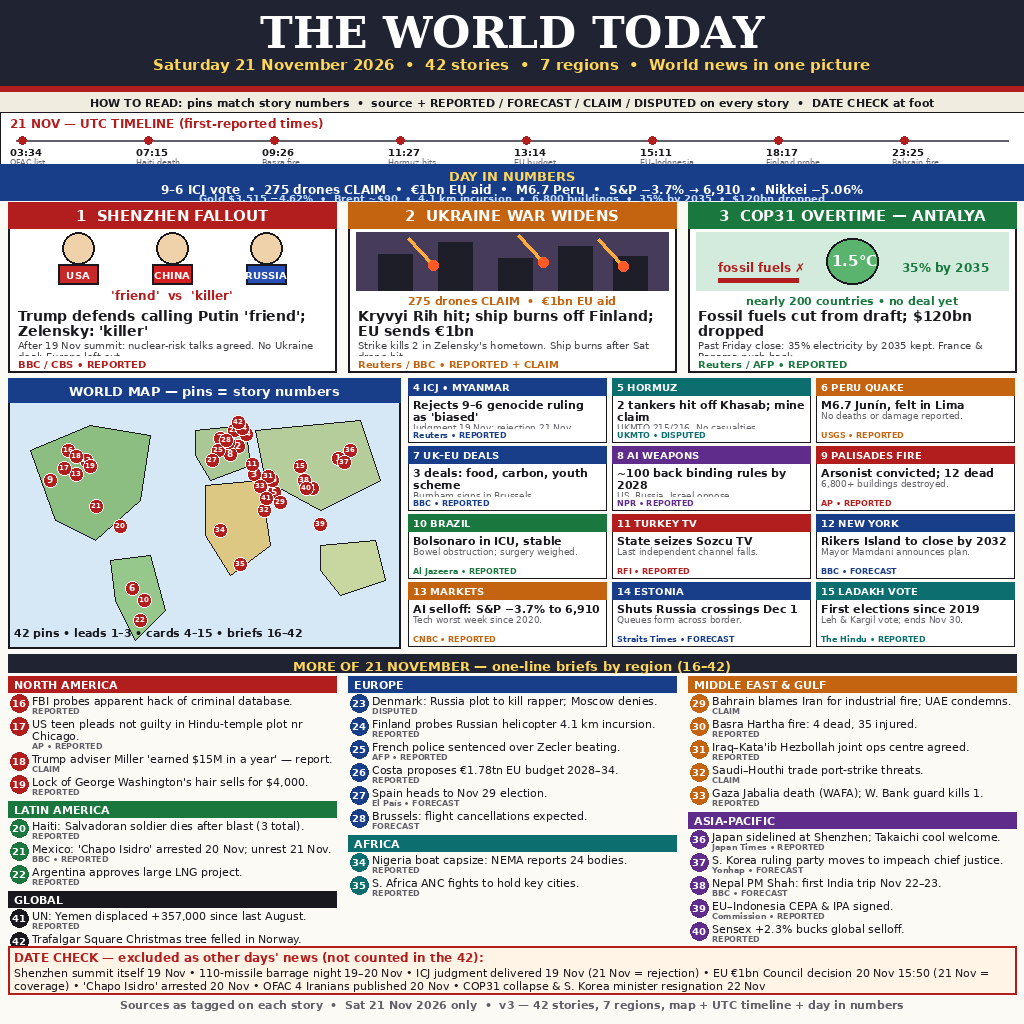
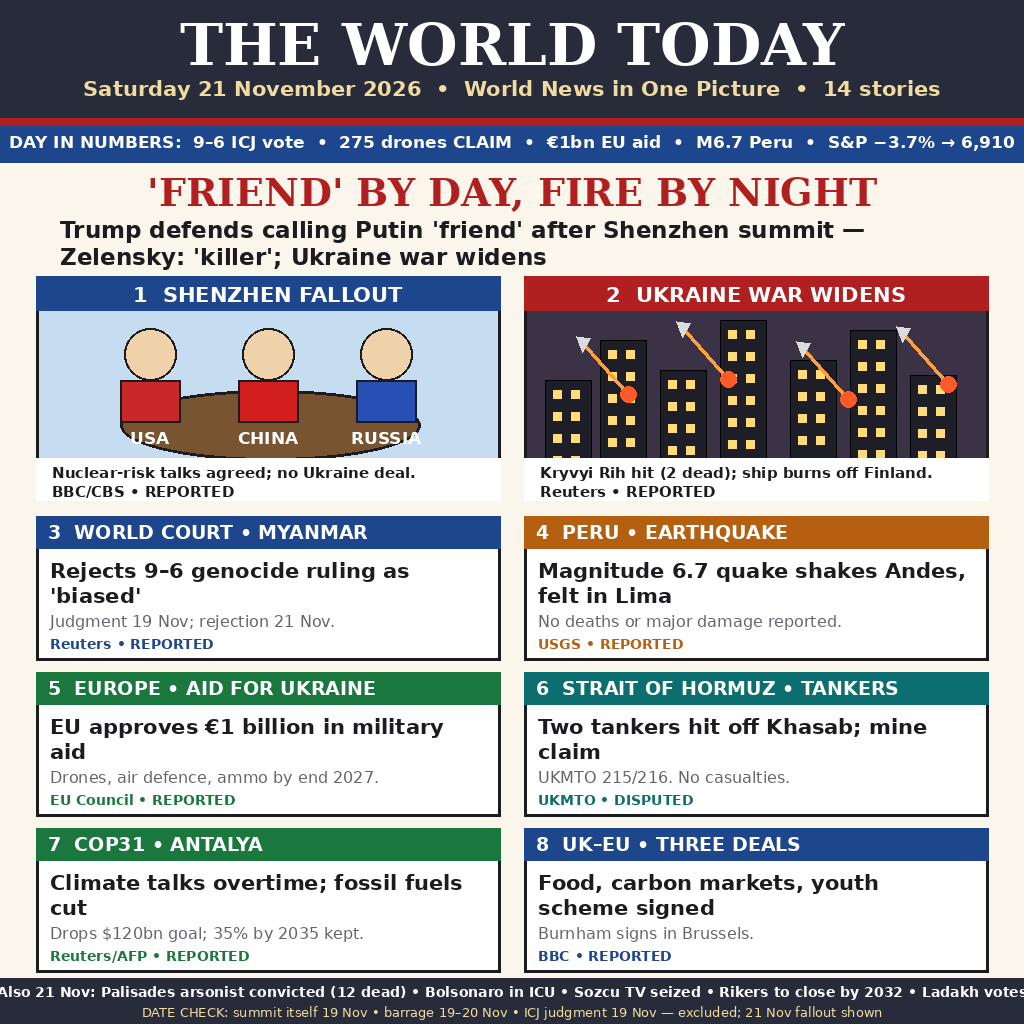
v5 hybrid clean: 14 stories large type, day-in-numbers, DATE CHECK

diff --git a/make_image.py b/make_image.py
@@ -1,9 +1,9 @@
 #!/usr/bin/env python3
-"""Dense front-page image: world news of Saturday 21 November 2026 (v2).
+"""Clean front-page image: world news of Saturday 21 November 2026 (v5 hybrid).
 
-42 stories, 7 regions, world map with pins, UTC timeline, day-in-numbers,
-source + confidence on every story, DATE CHECK box. Shapes/text only (PIL).
-Writes entry.png beside this file (1024x1024 PNG, deterministic).
+Readable large type: 2 illustrated leads + 6 cards + 6 briefs = 14 stories,
+UTC timeline, day-in-numbers, source + confidence on every story, DATE CHECK.
+Shapes/text only (PIL). Writes entry.png beside this file (1024x1024).
 """
 from PIL import Image, ImageDraw, ImageFont
 import os
@@ -15,18 +15,17 @@ SERIF_B = "/usr/share/fonts/truetype/dejavu/DejaVuSerif-Bold.ttf"
 SANS_B = "/usr/share/fonts/truetype/dejavu/DejaVuSans-Bold.ttf"
 SANS = "/usr/share/fonts/truetype/dejavu/DejaVuSans.ttf"
 
-PAPER = (252, 250, 244)
-INK = (24, 24, 30)
-RED = (178, 30, 30)
-BLUE = (24, 62, 138)
-TEAL = (12, 110, 110)
+PAPER = (250, 246, 236)
+INK = (28, 28, 32)
+RED = (176, 32, 32)
+BLUE = (30, 70, 140)
+GOLD = (176, 128, 20)
+GREY = (100, 100, 106)
+SKY = (198, 220, 240)
+DARKBOX = (40, 44, 58)
 GREEN = (26, 120, 62)
-ORANGE = (196, 100, 16)
-PURPLE = (96, 44, 140)
-GREY = (96, 96, 104)
-LIGHT = (240, 236, 224)
-DARK = (32, 36, 50)
-GOLD = (255, 214, 90)
+TEAL = (12, 110, 110)
+ORANGE = (180, 96, 16)
 WHITE = (255, 255, 255)
 
 img = Image.new("RGB", (W, H), PAPER)
@@ -52,8 +51,8 @@ def wrap(text, font, maxw):
     return lines
 
 
-def draw_wrap(x, y, text, font, maxw, fill=INK, leading=2, max_lines=99):
-    lines = wrap(text, font, maxw)[:max_lines]
+def draw_wrap(x, y, text, font, maxw, fill=INK, leading=4):
+    lines = wrap(text, font, maxw)
     lh = font.size + leading
     for ln in lines:
         d.text((x, y), ln, font=font, fill=fill)
@@ -61,242 +60,79 @@ def draw_wrap(x, y, text, font, maxw, fill=INK, leading=2, max_lines=99):
     return y
 
 
-def center(cx, y, text, font, fill=INK):
+def center_text(cx, y, text, font, fill=INK):
     w = d.textlength(text, font=font)
     d.text((cx - w / 2, y), text, font=font, fill=fill)
     return y + font.size
 
 
-def pin(cx, cy, n, col=RED):
-    d.ellipse([cx - 7, cy - 7, cx + 7, cy + 7], fill=col, outline=WHITE, width=1)
-    t = str(n)
-    f = F(SANS_B, 9 if n < 10 else 7)
-    w = d.textlength(t, font=f)
-    d.text((cx - w / 2, cy - f.size / 2 - 1), t, font=f, fill=WHITE)
-
-
-def tag(x, y, text, col):
-    f = F(SANS_B, 9)
-    w = d.textlength(text, font=f) + 8
-    d.rectangle([x, y, x + w, y + 14], fill=col)
-    d.text((x + 4, y + 2), text, font=f, fill=WHITE)
-    return x + w + 4
-
-
 # ---------- Masthead ----------
-d.rectangle([0, 0, W, 86], fill=DARK)
-center(W // 2, 6, "THE WORLD TODAY", F(SERIF_B, 44), fill=WHITE)
-center(W // 2, 56, "Saturday 21 November 2026  •  42 stories  •  7 regions  •  World news in one picture", F(SANS_B, 15), fill=GOLD)
-d.rectangle([0, 86, W, 92], fill=RED)
-# how-to-read strip
-d.rectangle([0, 92, W, 112], fill=LIGHT)
-center(W // 2, 96, "HOW TO READ: pins match story numbers  •  source + REPORTED / FORECAST / CLAIM / DISPUTED on every story  •  DATE CHECK at foot", F(SANS_B, 11), fill=INK)
-
-# ---------- UTC timeline ----------
-d.rectangle([0, 112, W, 164], fill=WHITE, outline=INK, width=1)
-d.text((10, 116), "21 NOV — UTC TIMELINE (first-reported times)", font=F(SANS_B, 12), fill=RED)
-tl = [("03:34", "OFAC list"), ("07:15", "Haiti death"), ("09:26", "Basra fire"), ("11:27", "Hormuz hits"),
-      ("13:14", "EU budget"), ("15:11", "EU–Indonesia"), ("18:17", "Finland probe"), ("23:25", "Bahrain fire")]
-d.line([16, 140, 1008, 140], fill=GREY, width=2)
-for i, (t, lab) in enumerate(tl):
-    xx = 10 + i * 126
-    d.ellipse([xx + 8, 136, xx + 16, 144], fill=RED)
-    d.text((xx, 146), t, font=F(SANS_B, 10), fill=INK)
-    d.text((xx, 157), lab, font=F(SANS, 8), fill=GREY)
+d.rectangle([0, 0, W, 118], fill=DARKBOX)
+center_text(W // 2, 10, "THE WORLD TODAY", F(SERIF_B, 58), fill=WHITE)
+center_text(W // 2, 76, "Saturday 21 November 2026  •  World News in One Picture  •  14 stories", F(SANS_B, 21), fill=(240, 220, 160))
+d.rectangle([0, 118, W, 126], fill=RED)
 
 # ---------- Day in numbers ----------
-d.rectangle([0, 164, W, 200], fill=BLUE)
-center(W // 2, 168, "DAY IN NUMBERS", F(SANS_B, 13), fill=GOLD)
-nums = "9–6 ICJ vote  •  275 drones CLAIM  •  €1bn EU aid  •  M6.7 Peru  •  S&P −3.7% → 6,910  •  Nikkei −5.06%"
-center(W // 2, 182, nums, F(SANS_B, 12), fill=WHITE)
-nums2 = "Gold $3,515 −4.62%  •  Brent ~$90  •  4.1 km incursion  •  6,800 buildings  •  35% by 2035  •  $120bn dropped"
-center(W // 2, 192, nums2, F(SANS_B, 10), fill=(200, 220, 255))
+d.rectangle([0, 126, W, 162], fill=BLUE)
+center_text(W // 2, 132, "DAY IN NUMBERS:  9–6 ICJ vote  •  275 drones CLAIM  •  €1bn EU aid  •  M6.7 Peru  •  S&P −3.7% → 6,910", F(SANS_B, 17), fill=WHITE)
 
-# ---------- 3 lead stories ----------
-leads = [
-    ("1  SHENZHEN FALLOUT", RED,
-     "Trump defends calling Putin 'friend'; Zelensky: 'killer'",
-     "After 19 Nov summit: nuclear-risk talks agreed. No Ukraine deal; Europe left out.",
-     "BBC / CBS • REPORTED"),
-    ("2  UKRAINE WAR WIDENS", ORANGE,
-     "Kryvyi Rih hit; ship burns off Finland; EU sends €1bn",
-     "Strike kills 2 in Zelensky's hometown. Ship burns after Sat drone hit.",
-     "Reuters / BBC • REPORTED + CLAIM"),
-    ("3  COP31 OVERTIME — ANTALYA", GREEN,
-     "Fossil fuels cut from draft; $120bn dropped",
-     "Past Friday close: 35% electricity by 2035 kept. France & Panama push back.",
-     "Reuters / AFP • REPORTED"),
-]
-lx = [8, 348, 688]
-for i, (head, col, title, body, src) in enumerate(leads):
-    x0, x1 = lx[i], lx[i] + 328
-    d.rectangle([x0, 202, x1, 372], outline=INK, width=2, fill=WHITE)
-    d.rectangle([x0, 202, x1, 228], fill=col)
-    center((x0 + x1) // 2, 207, head, F(SANS_B, 15), fill=WHITE)
-    # simple illustration strip
-    iy = 232
-    if i == 0:
-        for cx, c, lab in [(x0 + 70, (200, 40, 40), "USA"), (x0 + 164, (210, 30, 30), "CHINA"), (x0 + 258, (40, 80, 180), "RUSSIA")]:
-            d.ellipse([cx - 16, iy, cx + 16, iy + 32], fill=(240, 210, 170), outline=INK, width=2)
-            d.rectangle([cx - 20, iy + 32, cx + 20, iy + 52], fill=c, outline=INK, width=2)
-            center(cx, iy + 37, lab, F(SANS_B, 10), fill=WHITE)
-        center((x0 + x1) // 2, iy + 56, "'friend'  vs  'killer'", F(SANS_B, 12), fill=RED)
-    elif i == 1:
-        d.rectangle([x0 + 8, iy, x1 - 8, iy + 58], fill=(70, 60, 90))
-        for bx, bh in [(x0 + 30, 36), (x0 + 90, 48), (x0 + 150, 32), (x0 + 210, 44), (x0 + 265, 34)]:
-            d.rectangle([bx, iy + 58 - bh, bx + 34, iy + 58], fill=(30, 30, 40))
-        for mx, my in [(x0 + 60, iy + 6), (x0 + 170, iy + 3), (x0 + 250, iy + 7)]:
-            d.line([mx, my, mx + 24, my + 26], fill=(255, 170, 60), width=4)
-            d.ellipse([mx + 20, my + 22, mx + 30, my + 32], fill=(255, 90, 40))
-        center((x0 + x1) // 2, iy + 62, "275 drones CLAIM  •  €1bn EU aid", F(SANS_B, 11), fill=ORANGE)
-    else:
-        d.rectangle([x0 + 8, iy, x1 - 8, iy + 58], fill=(210, 235, 220))
-        d.ellipse([x0 + 138, iy + 6, x0 + 190, iy + 52], fill=(90, 180, 110), outline=INK, width=2)
-        d.text((x0 + 144, iy + 20), "1.5°C", font=F(SANS_B, 15), fill=WHITE)
-        d.line([x0 + 30, iy + 48, x0 + 110, iy + 48], fill=RED, width=5)
-        d.text((x0 + 30, iy + 28), "fossil fuels ✗", font=F(SANS_B, 12), fill=RED)
-        d.text((x0 + 214, iy + 28), "35% by 2035", font=F(SANS_B, 12), fill=GREEN)
-        center((x0 + x1) // 2, iy + 62, "nearly 200 countries • no deal yet", F(SANS_B, 11), fill=GREEN)
-    y = draw_wrap(x0 + 10, 308, title, F(SANS_B, 14), 308, fill=INK, leading=1, max_lines=2)
-    y = draw_wrap(x0 + 10, y + 1, body, F(SANS, 10), 308, fill=(60, 60, 66), leading=1, max_lines=2)
-    d.rectangle([x0 + 8, 356, x1 - 8, 370], fill=WHITE)
-    d.text((x0 + 10, 358), src, font=F(SANS_B, 10), fill=col)
+# ---------- Lead headline ----------
+center_text(W // 2, 170, "'FRIEND' BY DAY, FIRE BY NIGHT", F(SERIF_B, 38), fill=RED)
+y = draw_wrap(60, 216, "Trump defends calling Putin 'friend' after Shenzhen summit — Zelensky: 'killer'; Ukraine war widens",
+              F(SANS_B, 23), 904)
 
-# ---------- Map (left) + picture cards (right) ----------
-d.rectangle([8, 378, 400, 648], outline=INK, width=2, fill=(214, 232, 245))
-d.rectangle([8, 378, 400, 402], fill=BLUE)
-center(204, 383, "WORLD MAP — pins = story numbers", F(SANS_B, 13), fill=WHITE)
-# crude continents (blobs)
-conts = [
-    ([(30, 450), (90, 425), (150, 435), (140, 500), (95, 540), (55, 520)], (140, 190, 130)),   # N America
-    ([(110, 560), (150, 555), (165, 610), (135, 640), (115, 600)], (150, 200, 140)),          # S America
-    ([(195, 430), (245, 425), (250, 465), (210, 480), (195, 455)], (170, 200, 150)),          # Europe
-    ([(205, 485), (260, 480), (270, 545), (230, 575), (205, 535)], (220, 200, 130)),          # Africa
-    ([(255, 430), (360, 420), (380, 480), (320, 510), (265, 480)], (180, 205, 155)),          # Asia
-    ([(320, 545), (375, 540), (385, 580), (340, 595), (320, 570)], (200, 215, 160)),          # Oceania
-]
-for pts, col in conts:
-    d.polygon(pts, fill=col, outline=INK)
-pinpos = {
-    1: (338, 458), 2: (238, 446), 3: (254, 474), 4: (312, 488), 5: (274, 492), 6: (132, 588),
-    7: (220, 438), 8: (230, 454), 9: (50, 480), 10: (144, 600), 11: (252, 464), 12: (86, 460),
-    13: (76, 474), 14: (246, 434), 15: (300, 466), 16: (68, 450), 17: (64, 468), 18: (76, 456),
-    19: (90, 466), 20: (120, 526), 21: (96, 506), 22: (140, 620), 23: (234, 430), 24: (242, 428),
-    25: (218, 450), 26: (228, 442), 27: (212, 460), 28: (226, 440), 29: (280, 502), 30: (272, 480),
-    31: (268, 476), 32: (264, 510), 33: (260, 486), 34: (220, 530), 35: (240, 564), 36: (350, 450),
-    37: (344, 462), 38: (304, 480), 39: (320, 524), 40: (306, 488), 41: (266, 498), 42: (238, 422),
-}
-for n, (px, py) in pinpos.items():
-    pin(px, py, n)
-d.text((14, 626), "42 pins • leads 1–3 • cards 4–15 • briefs 16–42", font=F(SANS_B, 11), fill=INK)
+# two lead panels
+d.rectangle([36, 276, 500, 500], outline=INK, width=3, fill=SKY)
+d.rectangle([36, 276, 500, 310], fill=BLUE)
+center_text(268, 282, "1  SHENZHEN FALLOUT", F(SANS_B, 21), fill=WHITE)
+d.ellipse([120, 390, 420, 460], fill=(120, 84, 48), outline=INK, width=3)
+for cx, col, label in [(150, (200, 40, 40), "USA"), (268, (210, 30, 30), "CHINA"), (386, (40, 80, 180), "RUSSIA")]:
+    d.ellipse([cx - 26, 328, cx + 26, 380], fill=(240, 210, 170), outline=INK, width=2)
+    d.rectangle([cx - 30, 380, cx + 30, 422], fill=col, outline=INK, width=2)
+    center_text(cx, 428, label, F(SANS_B, 17), fill=WHITE)
+d.rectangle([36, 458, 500, 500], fill=WHITE)
+draw_wrap(52, 464, "Nuclear-risk talks agreed; no Ukraine deal. BBC/CBS • REPORTED", F(SANS_B, 15), 432)
 
+d.rectangle([524, 276, 988, 500], outline=INK, width=3, fill=(60, 50, 70))
+d.rectangle([524, 276, 988, 310], fill=RED)
+center_text(756, 282, "2  UKRAINE WAR WIDENS", F(SANS_B, 21), fill=WHITE)
+for bx, bh in [(545, 90), (600, 130), (660, 100), (720, 150), (790, 110), (850, 140), (910, 95)]:
+    d.rectangle([bx, 470 - bh, bx + 46, 470], fill=(30, 30, 40), outline=(0, 0, 0), width=1)
+    for wy in range(470 - bh + 10, 460, 22):
+        d.rectangle([bx + 8, wy, bx + 16, wy + 8], fill=(255, 220, 120))
+        d.rectangle([bx + 26, wy, bx + 34, wy + 8], fill=(255, 220, 120))
+for mx, my in [(580, 340), (680, 325), (800, 345), (900, 330)]:
+    d.line([mx, my, mx + 46, my + 52], fill=(255, 160, 60), width=5)
+    d.ellipse([mx + 40, my + 46, mx + 56, my + 62], fill=(255, 90, 40))
+    d.polygon([(mx - 4, my - 4), (mx + 10, my - 2), (mx + 2, my + 12)], fill=(220, 220, 220))
+d.rectangle([524, 458, 988, 500], fill=WHITE)
+draw_wrap(540, 464, "Kryvyi Rih hit (2 dead); ship burns off Finland. Reuters • REPORTED", F(SANS_B, 15), 432)
+
+# ---------- 6 cards (2 cols x 3 rows) ----------
 cards = [
-    ("4 ICJ • MYANMAR", BLUE, "Rejects 9–6 genocide ruling as 'biased'", "Judgment 19 Nov; rejection 21 Nov.", "Reuters • REPORTED"),
-    ("5 HORMUZ", TEAL, "2 tankers hit off Khasab; mine claim", "UKMTO 215/216. No casualties.", "UKMTO • DISPUTED"),
-    ("6 PERU QUAKE", ORANGE, "M6.7 Junín, felt in Lima", "No deaths or damage reported.", "USGS • REPORTED"),
-    ("7 UK–EU DEALS", BLUE, "3 deals: food, carbon, youth scheme", "Burnham signs in Brussels.", "BBC • REPORTED"),
-    ("8 AI WEAPONS", PURPLE, "~100 back binding rules by 2028", "US, Russia, Israel oppose.", "NPR • REPORTED"),
-    ("9 PALISADES FIRE", RED, "Arsonist convicted; 12 dead", "6,800+ buildings destroyed.", "AP • REPORTED"),
-    ("10 BRAZIL", GREEN, "Bolsonaro in ICU, stable", "Bowel obstruction; surgery weighed.", "Al Jazeera • REPORTED"),
-    ("11 TURKEY TV", RED, "State seizes Sozcu TV", "Last independent channel falls.", "RFI • REPORTED"),
-    ("12 NEW YORK", BLUE, "Rikers Island to close by 2032", "Mayor Mamdani announces plan.", "BBC • FORECAST"),
-    ("13 MARKETS", ORANGE, "AI selloff: S&P −3.7% to 6,910", "Tech worst week since 2020.", "CNBC • REPORTED"),
-    ("14 ESTONIA", BLUE, "Shuts Russia crossings Dec 1", "Queues form across border.", "Straits Times • FORECAST"),
-    ("15 LADAKH VOTE", TEAL, "First elections since 2019", "Leh & Kargil vote; ends Nov 30.", "The Hindu • REPORTED"),
+    ("3  WORLD COURT • MYANMAR", BLUE, "Rejects 9–6 genocide ruling as 'biased'", "Judgment 19 Nov; rejection 21 Nov.", "Reuters • REPORTED"),
+    ("4  PERU • EARTHQUAKE", ORANGE, "Magnitude 6.7 quake shakes Andes, felt in Lima", "No deaths or major damage reported.", "USGS • REPORTED"),
+    ("5  EUROPE • AID FOR UKRAINE", GREEN, "EU approves €1 billion in military aid", "Drones, air defence, ammo by end 2027.", "EU Council • REPORTED"),
+    ("6  STRAIT OF HORMUZ • TANKERS", TEAL, "Two tankers hit off Khasab; mine claim", "UKMTO 215/216. No casualties.", "UKMTO • DISPUTED"),
+    ("7  COP31 • ANTALYA", GREEN, "Climate talks overtime; fossil fuels cut", "Drops $120bn goal; 35% by 2035 kept.", "Reuters/AFP • REPORTED"),
+    ("8  UK–EU • THREE DEALS", BLUE, "Food, carbon markets, youth scheme signed", "Burnham signs in Brussels.", "BBC • REPORTED"),
 ]
-cx0 = 408
-for i, (head, col, title, body, src) in enumerate(cards):
-    col_i = i % 3
-    row_i = i // 3
-    x0 = cx0 + col_i * 204
-    y0 = 378 + row_i * 68
-    x1, y1 = x0 + 198, y0 + 64
-    d.rectangle([x0, y0, x1, y1], outline=INK, width=1, fill=WHITE)
-    d.rectangle([x0, y0, x1, y0 + 17], fill=col)
-    d.text((x0 + 5, y0 + 3), head, font=F(SANS_B, 10), fill=WHITE)
-    y = draw_wrap(x0 + 5, y0 + 20, title, F(SANS_B, 11), 188, fill=INK, leading=1, max_lines=2)
-    draw_wrap(x0 + 5, y, body, F(SANS, 9), 188, fill=GREY, leading=1, max_lines=1)
-    d.rectangle([x0 + 4, y1 - 13, x1 - 4, y1 - 1], fill=WHITE)
-    d.text((x0 + 5, y1 - 12), src, font=F(SANS_B, 8), fill=col)
+boxes = [(36, 516, 500, 688), (524, 516, 988, 688), (36, 700, 500, 872), (524, 700, 988, 872), (36, 884, 500, 1010), (524, 884, 988, 1010)]
+# only 6 boxes needed; use first 4 + adjust: actually 6 cards -> 3 rows; recompute below
+boxes = [(36, 516, 500, 660), (524, 516, 988, 660), (36, 672, 500, 816), (524, 672, 988, 816), (36, 828, 500, 972), (524, 828, 988, 972)]
+for (head, col, title, body, src), (x0, y0, x1, y1) in zip(cards, boxes):
+    d.rectangle([x0, y0, x1, y1], outline=INK, width=3, fill=WHITE)
+    d.rectangle([x0, y0, x1, y0 + 32], fill=col)
+    d.text((x0 + 12, y0 + 5), head, font=F(SANS_B, 19), fill=WHITE)
+    yy = draw_wrap(x0 + 14, y0 + 42, title, F(SANS_B, 21), x1 - x0 - 28)
+    yy = draw_wrap(x0 + 14, yy + 4, body, F(SANS, 16), x1 - x0 - 28, fill=GREY)
+    d.rectangle([x0 + 10, y1 - 26, x1 - 10, y1 - 4], fill=WHITE)
+    d.text((x0 + 14, y1 - 24), src, font=F(SANS_B, 14), fill=col)
 
-# ---------- Briefs by region (3 columns) ----------
-d.rectangle([8, 654, 1016, 672], fill=DARK)
-center(512, 658, "MORE OF 21 NOVEMBER — one-line briefs by region (16–42)", F(SANS_B, 13), fill=GOLD)
-
-regions = [
-    ("NORTH AMERICA", RED, [
-        ("16", "FBI probes apparent hack of criminal database.", "REPORTED"),
-        ("17", "US teen pleads not guilty in Hindu-temple plot nr Chicago.", "AP • REPORTED"),
-        ("18", "Trump adviser Miller 'earned $15M in a year' — report.", "CLAIM"),
-        ("19", "Lock of George Washington's hair sells for $4,000.", "REPORTED"),
-    ]),
-    ("LATIN AMERICA", GREEN, [
-        ("20", "Haiti: Salvadoran soldier dies after blast (3 total).", "REPORTED"),
-        ("21", "Mexico: 'Chapo Isidro' arrested 20 Nov; unrest 21 Nov.", "BBC • REPORTED"),
-        ("22", "Argentina approves large LNG project.", "REPORTED"),
-    ]),
-    ("EUROPE", BLUE, [
-        ("23", "Denmark: Russia plot to kill rapper; Moscow denies.", "DISPUTED"),
-        ("24", "Finland probes Russian helicopter 4.1 km incursion.", "REPORTED"),
-        ("25", "French police sentenced over Zecler beating.", "AFP • REPORTED"),
-        ("26", "Costa proposes €1.78tn EU budget 2028–34.", "REPORTED"),
-        ("27", "Spain heads to Nov 29 election.", "El País • FORECAST"),
-        ("28", "Brussels: flight cancellations expected.", "FORECAST"),
-    ]),
-    ("MIDDLE EAST & GULF", ORANGE, [
-        ("29", "Bahrain blames Iran for industrial fire; UAE condemns.", "CLAIM"),
-        ("30", "Basra Hartha fire: 4 dead, 35 injured.", "REPORTED"),
-        ("31", "Iraq–Kata'ib Hezbollah joint ops centre agreed.", "REPORTED"),
-        ("32", "Saudi–Houthi trade port-strike threats.", "CLAIM"),
-        ("33", "Gaza Jabalia death (WAFA); W. Bank guard kills 1.", "REPORTED"),
-    ]),
-    ("AFRICA", TEAL, [
-        ("34", "Nigeria boat capsize: NEMA reports 24 bodies.", "REPORTED"),
-        ("35", "S. Africa ANC fights to hold key cities.", "REPORTED"),
-    ]),
-    ("ASIA-PACIFIC", PURPLE, [
-        ("36", "Japan sidelined at Shenzhen; Takaichi cool welcome.", "Japan Times • REPORTED"),
-        ("37", "S. Korea ruling party moves to impeach chief justice.", "Yonhap • FORECAST"),
-        ("38", "Nepal PM Shah: first India trip Nov 22–23.", "BBC • FORECAST"),
-        ("39", "EU–Indonesia CEPA & IPA signed.", "Commission • REPORTED"),
-        ("40", "Sensex +2.3% bucks global selloff.", "REPORTED"),
-    ]),
-    ("GLOBAL", INK, [
-        ("41", "UN: Yemen displaced +357,000 since last August.", "REPORTED"),
-        ("42", "Trafalgar Square Christmas tree felled in Norway.", "REPORTED"),
-    ]),
-]
-# layout: col A = NA+LatAm+Global, col B = Europe+Africa, col C = ME+AsiaPac
-cols = [
-    [regions[0], regions[1], regions[6]],
-    [regions[2], regions[4]],
-    [regions[3], regions[5]],
-]
-colx = [8, 348, 688]
-for ci, groups in enumerate(cols):
-    x0 = colx[ci]
-    y = 676
-    for rname, rcol, items in groups:
-        d.rectangle([x0, y, x0 + 328, y + 16], fill=rcol)
-        d.text((x0 + 6, y + 2), rname, font=F(SANS_B, 11), fill=WHITE)
-        y += 18
-        for num, text, src in items:
-            d.ellipse([x0 + 2, y, x0 + 20, y + 18], fill=rcol)
-            f = F(SANS_B, 10)
-            w = d.textlength(num, font=f)
-            d.text((x0 + 11 - w / 2, y + 3), num, font=f, fill=WHITE)
-            y2 = draw_wrap(x0 + 24, y, text, F(SANS, 11), 304, fill=INK, leading=1, max_lines=2)
-            d.text((x0 + 24, y2), src, font=F(SANS_B, 8), fill=GREY)
-            y = y2 + 11
-        y += 3
-
-# ---------- DATE CHECK + footer ----------
-d.rectangle([8, 946, 1016, 994], outline=RED, width=2, fill=(255, 244, 230))
-d.text((14, 950), "DATE CHECK — excluded as other days' news (not counted in the 42):", font=F(SANS_B, 12), fill=RED)
-draw_wrap(14, 966,
-          "Shenzhen summit itself 19 Nov • 110-missile barrage night 19–20 Nov • ICJ judgment delivered 19 Nov (21 Nov = rejection) • EU €1bn Council decision 20 Nov 15:50 (21 Nov = coverage) • 'Chapo Isidro' arrested 20 Nov • OFAC 4 Iranians published 20 Nov • COP31 collapse & S. Korea minister resignation 22 Nov",
-          F(SANS, 11), 996, fill=INK, leading=2, max_lines=2)
-center(512, 998, "Sources as tagged on each story  •  Sat 21 Nov 2026 only  •  v3 — 42 stories, 7 regions, map + UTC timeline + day in numbers", F(SANS_B, 11), fill=GREY)
+# ---------- Briefs + DATE CHECK footer ----------
+d.rectangle([0, 978, W, 1024], fill=DARKBOX)
+center_text(W // 2, 984, "Also 21 Nov: Palisades arsonist convicted (12 dead) • Bolsonaro in ICU • Sozcu TV seized • Rikers to close by 2032 • Ladakh votes", F(SANS_B, 14), fill=WHITE)
+center_text(W // 2, 1004, "DATE CHECK: summit itself 19 Nov • barrage 19–20 Nov • ICJ judgment 19 Nov — excluded; 21 Nov fallout shown", F(SANS, 13), fill=(240, 220, 160))
 
 img.save(OUT, format="PNG", optimize=True)
-print(f"wrote {OUT} {img.size} stories=42")
+print(f"wrote {OUT} {img.size} stories=14")
